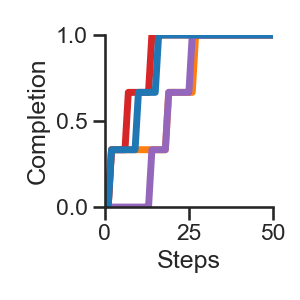
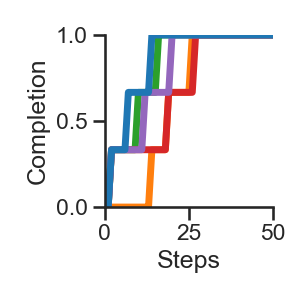
Altered graph display

Changed region(s): [[0.33, 0.12, 0.66, 0.69], [0.36, 0.57, 0.39, 0.6]]

diff --git a/gym_cooking/misc/metrics/make_graphs.py b/gym_cooking/misc/metrics/make_graphs.py
@@ -74,7 +74,8 @@ agents2_optimal = {
 agents3_optimal = {
     "open-divider": {"tomato": 12, "tl": 22, "salad": 15},
     "partial-divider": {"tomato": 12, "tl": 22, "salad": 16},
-    "full-divider": {"tomato": 13, "tl": 24, "salad": 19}
+    "full-divider": {"tomato": 13, "tl": 24, "salad": 19},
+    "new-open": {"tomato": 18}
 }
 time_steps_optimal = {2: agents2_optimal, 3: agents3_optimal}
 
@@ -268,7 +269,7 @@ def plot_data(key, path_save, df, num_agents, legend=False):
 
             if key == 'completion':
                 # plot ours last
-                hue_order = hue_order[1:] + [hue_order[0]]
+                # hue_order = hue_order[1:] + [hue_order[0]]
                 color_palette = sns.color_palette()[1:5] + [sns.color_palette()[0]]
                 # ax = sns.lineplot(x = 't', y = 'n', hue="model", data=data,
                 #     linewidth=5, legend=False, hue_order=hue_order, palette=color_palette)
@@ -278,7 +279,7 @@ def plot_data(key, path_save, df, num_agents, legend=False):
                 plt.ylim([0, 1]),
                 plt.xlim([0, 50])
             else:
-                hue_order = hue_order[1:] + [hue_order[0]]
+                # hue_order = hue_order[1:] + [hue_order[0]]
                 color_palette = sns.color_palette()[1:5] + [sns.color_palette()[0]]
                 # sns.barplot(x='dummy', y=key, hue="model", data=data, hue_order=hue_order,\
                 #                 palette=color_palette, ci=68).set(
